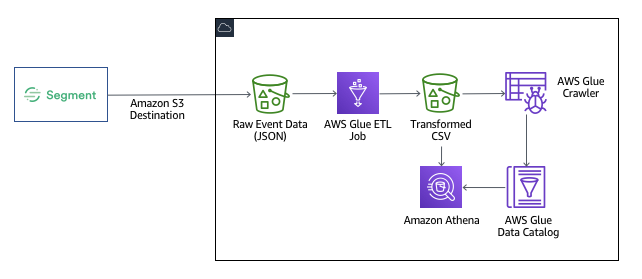
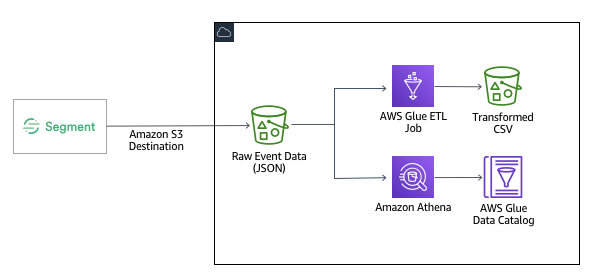
Exercise 1 content and script changes

Changed region(s): [[0.0, 0.0573, 0.9917, 0.9462], [0.0301, 0.5448, 0.1803, 0.5735]]

diff --git a/exercise1/etl/glue_etl.py b/exercise1/etl/glue_etl.py
@@ -2,13 +2,13 @@ import sys
 from awsglue.transforms import *
 from awsglue.utils import getResolvedOptions
 from awsglue.context import GlueContext
-from awsglue.dynamicframe import DynamicFrame
 from awsglue.job import Job
+from awsglue.dynamicframe import DynamicFrame
 from pyspark.context import SparkContext
 from pyspark.sql.functions import unix_timestamp
 
-## @params: [JOB_NAME,S3_JSON_INPUT_PATH,S3_CSV_OUTPUT_PATH]
-args = getResolvedOptions(sys.argv, ['JOB_NAME', 'S3_JSON_INPUT_PATH', 'S3_CSV_OUTPUT_PATH'])
+## @params: [JOB_NAME,S3_CSV_OUTPUT_PATH]
+args = getResolvedOptions(sys.argv, ['JOB_NAME', 'S3_CSV_OUTPUT_PATH'])
 
 sc = SparkContext()
 glueContext = GlueContext(sc)
@@ -16,16 +16,15 @@ spark = glueContext.spark_session
 job = Job(glueContext)
 job.init(args['JOB_NAME'], args)
 
-# Load JSON into dynamic frame
-datasource0 = glueContext.create_dynamic_frame.from_options('s3', {'paths': [args['S3_JSON_INPUT_PATH']]}, 'json')
-print("Input file: ", args['S3_JSON_INPUT_PATH'])
+# Load JSON files into dynamic frame.
+datasource0 = glueContext.create_dynamic_frame_from_options("s3", {'paths': ["s3://segment-personalize-data/segment-logs"], 'recurse':True}, format="json")
 print("Input file total record count: ", datasource0.count())
 
-# Filters the JSON documents that we want included in the output CSV
+# Filters the JSON documents that we want included in the output CSV.
+# These are the event types we're interested for our dataset.
 supported_events = ['Product Added', 'Order Completed', 'Product Clicked']
 def filter_function(dynamicRecord):
-	if ('anonymousId' in dynamicRecord and
-			'userId' in dynamicRecord and
+	if ('userId' in dynamicRecord and
 			'properties' in dynamicRecord and
 			'sku' in dynamicRecord["properties"] and
 			'event' in dynamicRecord and
@@ -40,7 +39,6 @@ print("Filtered record count: ", interactions.count())
 
 # Map only the fields we want in the output CSV, changing names to match target schema.
 applymapping1 = ApplyMapping.apply(frame = interactions, mappings = [ \
-	("anonymousId", "string", "ANONYMOUS_ID", "string"), \
 	("userId", "string", "USER_ID", "string"), \
 	("properties.sku", "string", "ITEM_ID", "string"), \
 	("event", "string", "EVENT_TYPE", "string"), \
@@ -54,6 +52,8 @@ onepartitionDF = onepartitionDF.withColumn("TIMESTAMP", \
 	unix_timestamp(onepartitionDF['TIMESTAMP_ISO'], "yyyy-MM-dd'T'HH:mm:ss.SSS'Z'"))
 # Convert back to dynamic frame
 onepartition = DynamicFrame.fromDF(onepartitionDF, glueContext, "onepartition_df")
+# Drop the ISO formatted timestamp
+onepartition = onepartition.drop_fields(['TIMESTAMP_ISO'])
 
 # Write output back to S3 as a CSV
 glueContext.write_dynamic_frame.from_options(frame = onepartition, connection_type = "s3", \

diff --git a/exercise1/README.md b/exercise1/README.md
@@ -10,7 +10,7 @@ In this exercise we will walk through the process required to take historical cl
 
 Segment provides the ability to send event data from one or more data sources configured in your Segment account to several AWS services including S3, Kinesis, and Redshift. Since the raw format, fields, and event types in the Segment event data cannot be directly uploaded to Amazon Personalize for model training, this exercise will guide you through the process of transforming the data into the format expected by Personalize.
 
-We will start with raw event data that has already aggregated into a single JSON file in a S3 bucket. We will use AWS Glue to create an ETL (extract, transform, load) job that will take the JSON file, apply filtering and field mapping to each JSON event, and write the output back to S3 as a CSV file which will then be consumed by Personalize.
+In the interest of time for the workshop, we will start with data that has already been written to an Amazon S3 bucket by the Segment S3 destination. The [format](https://segment.com/docs/destinations/amazon-s3/#data-format) of these files is compressed JSON where events are grouped into directories by Segment source ID and time. Since the Personalize service requires training data to be uploaded in CSV format, we will need to aggregate, filter, and transform the raw JSON into a single CSV file using an ETL job. We will use AWS Glue for this step. However, before creating our Glue ETL job, we'll learn how to use Amazon Athena to easily explore our training data. Being able to quickly inspect and investigate training data can be invaluable in gaining insight from and resolving issues.
 
 > There is a minimum amount of data that is necessary to train a model. Using existing historical data allows you to immediately start training a solution. If you ingest data as it is created, and there is no historical data, it can take a while before training can begin.
 
@@ -26,6 +26,8 @@ In this exercise we will walk through the process required to take the raw histo
 * Redshift
 
 For this exercise we will walk you through how to setup an S3 destination in your Segment account. In the interest of time, though, we will provide a pre-made test dataset that you will upload to S3 yourself. Then you will use AWS Glue to create an ETL (extract, transform, load) Job that will filter and transform the raw JSON file into the format required by Personalize. The output file will be written back to S3. Finally, you will learn how to use Amazon Athena to query and visualize the data in the transformed file directly from S3.
+
+> The Segment Amazon S3 destination is just one method for collecting historical training data for Personalize. If you're already using [Segment's Amazon Redshift Data Warehouse destination](https://segment.com/docs/destinations/redshift/), you can easily extract (or unload) data from your Redshift instance as a CSV suitable for uploading into Personalize. See the [sql/redshift_unload_as_csv.sql](sql/redshift_unload_as_csv.sql) file.
 
 ### Exercise Preparation
 
@@ -47,12 +49,12 @@ Go to https://app.segment.com and log in as:
     username: igor+awsmlworkshop@segment.com
     password: <will be on the whiteboard>
 
-Select your workspace.  For this workshop, you will need to have a Segment Business Tier workspace that has Personas provisioned.  
+Select your workspace. For this workshop, you will need to have a Segment Business Tier workspace that has Personas provisioned.  
 
 If you are reading this document after the workshop, please contact your Segment sales representative to get set up with a demo workspace with Personas and Business Tier.
 
 ## Part 2 - Create Segment Sources
-****
+
 Segment Sources allow you to collect semantic events as your users interact with your web sites, mobile applications, or server-side applications.  For this workshop, you will set up sources for a web application, an Android application, and iOS mobile application.  We will also create a source that will be used to send recommendations from Personalize to user profiles in Segment.
 
 Your initial Segment workspace will look like this:
@@ -201,22 +203,42 @@ This will generate two days worth of interaction data in your Segment instance. 
 
 This view shows the last 50 real time events for that source.  If you have events in all of your sources, you are ready to go to the next step.
 
-## Part 6 - Upload Raw Interaction Test Data to S3
+## Part 6 - Explore Workshop Test Data
 
-Upload the sample raw dataset to the S3 bucket which has been created for you in the AWS-provided workshop account. The S3 bucket name will be in the format `personalize-data-ACCOUNT_ID` where ACCOUNT_ID is the ID for the AWS account that you're using for the workshop.
+In the interest of time, we have pre-populated an S3 bucket with raw historical JSON data from a sample Segment account. We will use this data to train an initial model in Personalize that will be used throughout the remainder of this workshop.
 
-1. Log in to the AWS console. If you are participating in an AWS led workshop, use the instructions provided to access your temporary workshop account.
-2. Browse to the S3 service.
-3. Click on the bucket with a name like `personalize-data-...`.
-4. Create a folder called `raw-events` in this bucket.
-5. Click on the `raw-events` folder just created.
-6. This repository already contains a compressed data file for you to upload. Upload the local file `data/raw-events/events.json.gz` in this repo to the `raw-events` folder in your S3 bucket.
+In this step we will demonstrate how Amazon Athena can be used to create external table pointing at the raw JSON files and then query those files using SQL. This can be an invaluable tool to inspect your data before uploading it into Personalize and as you iterate with models over time.
 
-> If you're stepping through this workshop in your own personal AWS account, you will need to create an S3 bucket yourself that has the [necessary bucket policy](https://docs.aws.amazon.com/personalize/latest/dg/data-prep-upload-s3.html) allowing Personalize access to your bucket. Alternatively, you can apply the CloudFormation template [eventengine/workshop.template](eventengine/workshop.template) within your account to have these resources created for you.
+Log in to the AWS console. If you are participating in an AWS led workshop, use the instructions provided to access your temporary workshop account. Browse to the Amazon Athena service page in the console, making sure that you are in the "N. Virginia" region.
+
+Before we can create a table for the data in S3, we need an Athena database. For the purposes of this exercise, the database that we use is not important. If a "default" database has not been setup for you, create one by entering the following DDL statement in the "New query 1" tab and pressing the "Run query" button.
+
+```sql
+CREATE DATABASE IF NOT EXISTS default;
+```
+
+![Create Athena Database](images/AthenaCreateDatabase.png)
+
+Next let's create a table in Athena that points to the historical data in S3. We have written the DDL statement for you. Open the [sql/athena_create_table.sql](sql/athena_create_table.sql) file, copy the contents to your clipboard, and paste file contents into the "New query 1" tab in the Athena console. Take a moment to inspect the "CREATE EXTERNAL TABLE..." statement. One important aspect of this DDL statement is that there are several field name mapping statements in the SERDEPROPERTIES section. These mappings address the [Athena requirement](https://docs.aws.amazon.com/athena/latest/ug/tables-databases-columns-names.html) that the only special character allowed is an underscore. Since the Segment test data has several trait names with embedded spaces, these mappings allow us to safely query this data. 
+
+When you're ready, press the "Run query" button to execute the statement. This will create the table in the Glue Data Catalog. Now you are ready to execute queries against the compressed JSON files. Trying inspecting the data with a few queries.
+
+```sql
+-- What does the data look like?
+SELECT * FROM segment_logs limit 20;
+-- The 'event' column is what we can use for event type in training our model.
+-- What event types are available?
+SELECT COUNT(messageId) AS eventCount, event FROM segment_logs GROUP BY event ORDER BY eventCount DESC;
+-- In order to make recommendations we need an item/product to recommend.
+-- Our product SKU is in 'properties.sku'. What event types are available where we have a SKU?
+SELECT COUNT(messageId) AS eventCount, event FROM segment_logs WHERE properties.sku IS NOT NULL GROUP BY event ORDER BY eventCount DESC;
+```
+
+From the results of the last query you will notice that there are three events that include a product SKU: 'Product Clicked', 'Product Added', and 'Order Completed'. We will use these events in training our model for product recommendations. We could also train models based on other event types, such as 'Page Viewed' or 'Signup Success' and use them to make content or membership program recommendations.
 
 ## Part 7 - Data Preparation
 
-Since the raw format, fields, and event types in the Segment event data cannot be directly uploaded to Amazon Personalize for model training, this step will guide you through the process of transforming the data into the format expected by Personalize. We will start with raw event data that has already aggregated into a single JSON file which you uploaded to S3 in the previous step. We will use AWS Glue to create an ETL job that will take the JSON file, apply filtering and field mapping to each JSON event, and write the output back to S3 as a CSV file.
+Since the raw format, fields, and event types in the Segment event data cannot be directly uploaded to Amazon Personalize for model training, this step will guide you through the process of transforming the data into the format expected by Personalize. We will use the same compressed JSON files you queried with Athena in the previous step. We will use AWS Glue to create an ETL job that will take the JSON files, apply filtering and field mapping to each JSON event, and write the output back to S3 as a CSV file.
 
 ### Create AWS Glue ETL Job
 
@@ -233,14 +255,14 @@ Click the "Add job" button and enter the following information.
 * Leave everything else the same and click Next at the bottom of the form.
 * On the "Connections" step just click "Save job and edit script" since we are not accessing data in a database for this job.
 
-The source code for the Glue job has already been written. Copy the contents of [etl/glue_etl.py](etl/glue_etl.py) to your clipboard and paste it into the Glue editor window. Click "Save" to save the job script.
+The source code for the Glue job has already been written for you. Copy the contents of [etl/glue_etl.py](etl/glue_etl.py) to your clipboard and paste it into the Glue editor window. Click "Save" to save the job script.
 
 ![Glue Job Script](images/GlueEditJobScript.png)
 
-Let's review key parts of the script in more detail. First, the script is initialized with a few job parameters. We'll see how to specify these parameter values when we run the job below. For now, just see we're passing in the location of the raw JSON files via `S3_JSON_INPUT_PATH` and the location where the output CSV should be written through `S3_CSV_OUTPUT_PATH`.
+Let's review key parts of the script in more detail. First, the script is initialized with a few job parameters. We'll see how to specify these parameter values when we run the job below. For now, just see we're passing in the location where the output CSV should be written through `S3_CSV_OUTPUT_PATH`. The `JOB_NAME` parameter is passed to our job by the Glue execution framework.
 
 ```python
-args = getResolvedOptions(sys.argv, ['JOB_NAME', 'S3_JSON_INPUT_PATH', 'S3_CSV_OUTPUT_PATH'])
+args = getResolvedOptions(sys.argv, ['JOB_NAME', 'S3_CSV_OUTPUT_PATH'])
 ```
 
 Next the Spark and Glue contexts are created and associated. A Glue Job is also created and initialized.
@@ -253,17 +275,22 @@ job = Job(glueContext)
 job.init(args['JOB_NAME'], args)
 ```
 
-The first step in our Job is to load the raw JSON file as a Glue DynamicFrame.
+The first step in our Job is to load the raw JSON file as a Glue DynamicFrame. We're loading the JSON from the shared S3 bucket (segment-personalize-data) where the training data for the workshop has already been staged. Note that we're specifying the `recurse:True` parameter so that Glue will recursively load all files under the `segment-logs` folder.
 
 ```python
-datasource0 = glueContext.create_dynamic_frame.from_options('s3', {'paths': [args['S3_JSON_INPUT_PATH']]}, 'json')
+datasource0 = glueContext.create_dynamic_frame_from_options("s3", {'paths': ["s3://segment-personalize-data/segment-logs"], 'recurse':True}, format="json")
 ```
 
-Since not all events that are written to S3 by Segment are relevant to training a Personalize model, we'll use Glue's `Filter` transformation to keep only the records we want. The `datasource0` DynamicFrame created above is passed to `Filter.apply(...)` function along with the `filter_function` function. It's in `filter_function` where we keep events that have a product SKU and `userId` specified. The resulting DynamicFrame is captured as `interactions`.
+Since we only want specific events for training our Personalize model, we'll use Glue's `Filter` transformation to keep only the records we want. The `datasource0` DynamicFrame created above is passed to `Filter.apply(...)` function along with the `filter_function` function. It's in `filter_function` where we keep events that have a product SKU and `userId` specified. The resulting DynamicFrame is captured as `interactions`.
 
 ```python
+supported_events = ['Product Added', 'Order Completed', 'Product Clicked']
 def filter_function(dynamicRecord):
-    if dynamicRecord["properties"]["sku"] and dynamicRecord["userId"]:
+    if ('userId' in dynamicRecord and
+            'properties' in dynamicRecord and
+            'sku' in dynamicRecord["properties"] and
+            'event' in dynamicRecord and
+            dynamicRecord['event'] in supported_events):
         return True
     else:
         return False
@@ -275,7 +302,6 @@ Next we will call Glue's `ApplyMapping` transformation, passing the `interaction
 
 ```python
 applymapping1 = ApplyMapping.apply(frame = interactions, mappings = [ \
-    ("anonymousId", "string", "ANONYMOUS_ID", "string"), \
     ("userId", "string", "USER_ID", "string"), \
     ("properties.sku", "string", "ITEM_ID", "string"), \
     ("event", "string", "EVENT_TYPE", "string"), \
@@ -283,16 +309,18 @@ applymapping1 = ApplyMapping.apply(frame = interactions, mappings = [ \
     transformation_ctx = "applymapping1")
 ```
 
-To convert the ISO 8601 date format to UNIX time for each record, we'll use Spark's `withColumn(...)` to create a new column called `TIMESTAMP` that is the converted value of the `TIMESTAMP_ISO` field. Before we can call `withColumn`, though, we need to convert the Glue DynamicFrame into a Spark DataFrame. That is accomplished by calling `toDF()` on the output of ApplyMapping transformation above. Since Personalize requires our uploaded CSV to be a single file, we'll call `repartition(1)` on the DataFrame to force all data to be written in a single partition. Finally, after creating the `TIMESTAMP` in the expected format, `DyanmicFrame.fromDF()` is called to convert the DataFrame back into a DyanmicFrame.
+To convert the ISO 8601 date format to UNIX time for each record, we'll use Spark's `withColumn(...)` to create a new column called `TIMESTAMP` that is the converted value of the `TIMESTAMP_ISO` field. Before we can call `withColumn`, though, we need to convert the Glue DynamicFrame into a Spark DataFrame. That is accomplished by calling `toDF()` on the output of ApplyMapping transformation above. Since Personalize requires our uploaded CSV to be a single file, we'll call `repartition(1)` on the DataFrame to force all data to be written in a single partition. Finally, after creating the `TIMESTAMP` in the expected format, `DyanmicFrame.fromDF()` is called to convert the DataFrame back into a DyanmicFrame and then we'll drop the `TIMESTAMP_ISO` field.
 
 ```python
-# Repartition to a single file
+# Repartition to a single file since that is what is required by Personalize
 onepartitionDF = applymapping1.toDF().repartition(1)
 # Coalesce timestamp into unix timestamp
 onepartitionDF = onepartitionDF.withColumn("TIMESTAMP", \
-    unix_timestamp(onepartitionDF['TIMESTAMP_ISO'], "yyyy-MM-dd'T'HH:mm:ss.SSS'Z'"))
+	unix_timestamp(onepartitionDF['TIMESTAMP_ISO'], "yyyy-MM-dd'T'HH:mm:ss.SSS'Z'"))
 # Convert back to dynamic frame
 onepartition = DynamicFrame.fromDF(onepartitionDF, glueContext, "onepartition_df")
+# Drop the ISO formatted timestamp
+onepartition = onepartition.drop_fields(['TIMESTAMP_ISO'])
 ```
 
 The last step is to write our CSV back to S3 at the path specified by the `S3_CSV_OUTPUT_PATH` job property and commit the job.
@@ -313,16 +341,15 @@ While still in the Glue service console and the job listed, click the "Run job" 
 
 ![Glue Job Parameters](images/GlueRunJobDialog.png)
 
-Scroll down to the "Job parameters" section. This is where we will specify the job parameters that our script expects for the path to the input data and the path to the output file. Create two job parameters with the following key and value. Be sure to prefix each key with `--` as shown. Substitute your account ID for `[ACCOUNT_ID]` in the values below. You copy the bucket name to your clipboard from the S3 service page in the tab/window you opened above. The order they are specified does not matter.
+Scroll down to the "Job parameters" section. This is where we will specify the job parameters that our script expects for the path to the input data and the path to the output file. Create two job parameters with the following key and value. Be sure to prefix each key with `--` as shown. Substitute your account ID for `[ACCOUNT_ID]` in the values below. You copy the bucket name to your clipboard from the S3 service page in the tab/window you opened above. 
 
 | Key                  | Value                                          |
 | -------------------- | ---------------------------------------------- |
-| --S3_JSON_INPUT_PATH | s3://personalize-data-[ACCOUNT_ID]/raw-events/ |
 | --S3_CSV_OUTPUT_PATH | s3://personalize-data-[ACCOUNT_ID]/transformed |
 
 ![Glue Job Parameters](images/GlueRunJobParams.png)
 
-Click the "Run job" button to start the job. Once the job has started running you will see log output in the "Logs" tab at the bottom of the page. It may take a few minutes to complete.
+Click the "Run job" button to start the job. Once the job has started running you will see log output in the "Logs" tab at the bottom of the page. It may take a few minutes to start the execution of your job and several minutes to complete.
 
 When the job completes click the "X" in the upper right corner of the the page to exit the job script editor.
 
@@ -332,64 +359,4 @@ Browse to the S3 service page in the AWS console and find the bucket with a name
 
 ![Glue Job Transformed File](images/GlueJobOutputFile.png)
 
-## Part 4 - Data Exploration
-
-For the final part of the exercise we will learn how to create an AWS Glue Crawler to crawl and catalog the output of our ETL job in the AWS Glue Data Catalog. Once our file has been cataloged, we demonstrate how we can use Amazon Athena to run queries against the data file.
-
-### Create Glue Crawler
-
-Browse to AWS Glue in the AWS console. Ensure that you are still in the "N. Virginia" region. Click "Crawlers" in the left navigation.
-
-![Glue Crawlers](images/GlueCrawlers.png)
-
-Click the "Add crawler" button. For the "Crawler name" enter something like "SegmentEventsCrawler" and click "Next".
-
-![Glue Add Crawler](images/GlueCrawlerAdd.png)
-
-For the data store, select S3 and "Specified path in my account". For the "Include path", click the folder icon and select the "transformed" folder in the "personalize-data-..." bucket. Do __NOT__ select the "run-..." file. Click "Next" and then "Next" again when prompted to add another data store.
-
-![Glue Add Crawler Data Store](images/GlueCrawlerAddDataStore.png)
-
-For the IAM role, select "Choose an existing IAM role" radio button and then select the "module-personalize-GlueServiceRole-..." role from the dropdown. Click "Next".
-
-![Glue Add Crawler Role](images/GlueCrawlerAddRole.png)
-
-Leave the Frequency set to "Run on demand" and click "Next".
-
-![Glue Add Crawler Schedule](images/GlueCrawlerAddOnDemand.png)
-
-For the crawler output, click the "Add database" button and create a database named "segmentdata". Click "Next".
-
-![Glue Add Crawler Output](images/GlueCrawlerAddOutput.png)
-
-On the review page, click "Finish" at the bottom of the page.
-
-From the Crawlers page, click the "Run it now?" link or select the checkbox for the crawler you just created and click "Run crawler".
-
-Wait for the crawler to finish. It should take about 1-2 minutes. Once completed, the crawler will add a table named "segmentdata.transformed" to the Glue data catalog.
-
-### Data Exploration
-
-Now let's use Amazon Athena to query the transformed data just crawled.
-
-Browse to Athena in the AWS console, ensuring that you are still in the N. Virginia region.
-
-Make sure your database is selected in the left panel and you should see the "transformed" table below the database.
-
-![Athena Database and Table](images/AthenaDbAndTable.png)
-
-Enter the following SQL query in the "New query 1" tab.
-
-```sql
-SELECT * FROM "segmentdata"."transformed" limit 10;
-```
-
-Click the "Run query" button to execute this query against the CSV file.
-
-![Athena Query Results](images/AthenaQueryResults.png)
-
-You will see the columns we specified in the "ApplyMapping" transformation in our Glue job as well as the "timestamp" column we added to represent the event time in UNIX timestamp format.
-
-Experiment with additional queries on your own to get a better sense of how standard SQL can be used to explore your data on S3 using Athena. As you iterate on extracting and loading your datasets into Personalize, Athena can be a valuable tool to quickly investigate values in your datasets to understand and troubleshoot your data.
-
-In the next [exercise](../exercise2/) we will create a Personalize Dataset Group and import the CSV as an interaction dataset.
+At this point we have the transformed CSV file containing historical clickstream data that we will use to upload and train a model in Personalize. In the next [exercise](../exercise2/) we will create a Personalize Dataset Group and import the CSV as an interaction dataset.

diff --git a/README.md b/README.md
@@ -1,6 +1,6 @@
 # Segment + Amazon Personalize Workshop
 
-[Segment](http://segment.com) is the easiest way to collect data once about what users are doing and send the data to third party tools and warehouses. Segment does this by enabling businesses to collect first-party event data from their websites, mobile apps, and cloud tools like email and CRM, combine with offline data, then standardize and clean the data so it can be utilized in 200+ tools like marketing, analytics, attribution, and warehouses including Redshift.
+[Segment](http://segment.com) provides an easy way to collect data once about what users are doing and send the data to third party tools and warehouses. Segment does this by enabling businesses to collect first-party event data from their websites, mobile apps, and cloud tools like email and CRM, combine with offline data, then standardize and clean the data so it can be utilized in 200+ tools like marketing, analytics, attribution, and warehouses including Amazon Redshift.
 
 [Amazon Personalize](https://aws.amazon.com/personalize/) is a machine learning service that makes it easy for developers to create individualized recommendations for customers using their applications.
 
@@ -20,7 +20,7 @@ Before following the exercises below, be sure to clone this repository to your l
 git clone https://github.com/james-jory/segment-personalize-workshop.git
 ```
 
-If you are following this workshop on your own (i.e. in your own personal AWS account and **not** part of an organized workshop delivered by AWS), you will also need apply the CloudFormation template [eventengine/workshop.template](eventengine/workshop.template) within your account before stepping through the exercises. If you're participating in an AWS-led workshop, this has likely already been done for you. This template will setup the IAM roles, policies, and S3 bucket required by the exercises.
+If you are following this workshop on your own (i.e. in your own personal AWS account and **not** part of an organized workshop delivered by AWS), you will also need to apply the CloudFormation template [eventengine/workshop.template](eventengine/workshop.template) within your account before stepping through the exercises. This template will setup the necessary resources and IAM roles & policies required by the exercises in this workshop. If you're participating in an AWS-led workshop, this has likely already been done for you.
 
 ## [Exercise 1](exercise1/) - Data Preparation, Filtering, and Exploration
 
@@ -30,10 +30,10 @@ The focus of this [exercise](exercise1/) is to learn how to use historical click
 
 In this [exercise](exercise2/) we will pick up where we left off in the prior exercise by uploading the transformed data from S3 into a Personalize Dataset Group. Then you will create a Personalize Solution based on this data. A solution is the term Amazon Personalize uses for a trained machine learning model. Creating a solution entails optimizing the model to deliver the best results for a specific business need. Amazon Personalize uses "recipes" to create these personalized solutions. We will wrap up this exercise by creating a campaign. A deployed solution is known as a campaign, and is able to make recommendations for your users.
 
-## [Exercise 3](exercise3/) - Real-Time Data Collection & Recommendation Optimization
+## [Exercise 3](exercise3/) - Getting Recommendations from Personalize
 
-In this [exercise](exercise3/) we will build the components necessary to ingest clickstream data from Segment using an Amazon Kinesis Data Stream and Amazon Lambda and update Personalize in real-time. This will allow Personalize to learn from customer interactions that are being collected by Segment to improve its recommendations.
+In this [exercise](exercise3/) we will demonstrate how recommendations from Personalize can be accessed by your applications via a REST API using [Amazon API Gateway](https://aws.amazon.com/api-gateway/) and [AWS Lambda](https://aws.amazon.com/lambda/). This Lambda function serves as more than a simple proxy, however. We will demonstrate how this function can be used to add a filtering capability by taking into account recent purchase information available in Segment Personas.
 
-## [Exercise 4](exercise4/) - Activating Recommendations using Segment Personas
+## [Exercise 4](exercise4/) - Real-Time Data Collection and Activating Recommendations using Segment Personas
 
-In this final [exercise](exercise4/) we will look at how recommendations from Personalize can be further enhanced by filtering them against traits such as purchase history that already exists in Segment and leveraging personalized recommendations across other integrated solutions in your Segment account. This allows to you weave recommendations not only in your own website and mobile apps but also throughout your martech stack.
+In this final [exercise](exercise4/) we will look at how [Segment's Amazon Personalize](https://segment.com/docs/destinations/amazon-personalize/) destination can be used to send events collected in real-time directly to Personalize. This will allow Personalize to learn from customer interactions that are being collected by Segment to improve its recommendations. Furthermore, we will learn now to take recommendations from Personalize, apply the same filtering we implemented in the prior exercise, and attach those recommendations to customer profiles in Segment Personas. This allows to you weave recommendations not only in your own website and mobile apps but also throughout your martech stack.
